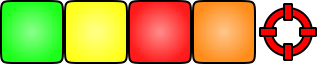
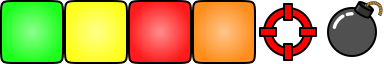
Added scoring system: cleared lines rewards bombs, allowing detonations

diff --git a/script.js b/script.js
@@ -251,21 +251,12 @@ const blocks=document.getElementById("blocks");
 //6x13, with space above
 const field_width =6;
 const field_height =13;
-const detonate_timer=1000;
 const acceleration=0.00002;
 
 class Field {
 	constructor() {
 		this.resize()
 		this.clear()
-		this.width=canvas.width;
-		this.height=canvas.height;
-		//canvas.height=window.innerHeight;
-		//canvas.width=window.innerWidth;
-		//this.block_width=canvas.width/field_width;
-		//this.block_height=canvas.height/field_height;
-		//canvas.height=canvas.style.height
-		console.log("w x: " +canvas.height +" style w: "+ canvas.style.height);
 
 		this.blocks = Array(field_height).fill().map(() => Array(field_width).fill(-1));
 		this.blocks_offset = Array(field_height).fill().map(() => Array(field_width).fill(0));
@@ -273,34 +264,15 @@ class Field {
 
 
 		this.target=-1;
-		this.timer=0;
-	}
-	target_type(type) {
-		this.target=type;
-		this.timer=detonate_timer;
-	}
-	target_next() {
-		this.target=(this.target+1)%4;
-		this.timer=detonate_timer;
 	}
 	resize() {
-		canvas.height=this.width=div.clientHeight//*0.95;
-		//canvas.width=this.width=div.clientWidth;
+		canvas.height=div.clientHeight;
 		canvas.width=canvas.height*field_width/field_height;
 
-		//canvas.height=window.innerHeight;
-		//canvas.width=window.innerWidth;
 		this.block_width=canvas.width/field_width;
 		this.block_height=canvas.height/field_height;
-		//context.clearRect(0,0,canvas.width,canvas.height)
-		//context.drawImage(background, 0, canvas.height-canvas.width, canvas.width, canvas.width);
 	}
 	clear() {
-		//canvas.height=window.innerHeight;
-		//canvas.width=window.innerWidth;
-		//this.block_width=canvas.width/field_width;
-		//this.block_height=canvas.height/field_height;
-		//context.clearRect(0,0,canvas.width,canvas.height)
 		context.fillStyle="#ffffff"
 		context.fillRect(0,0,canvas.width,canvas.height)
 		context.drawImage(background, 0, canvas.height-canvas.width, canvas.width, canvas.width);
@@ -317,14 +289,8 @@ class Field {
 			}
 		}
 
-		if (this.timer > 0) {
-			context.fillStyle="red";
-			context.fillRect(0, this.block_height*(field_height-1+1.5/4), this.block_width*field_width*this.timer/detonate_timer, this.block_height/4);
-		}
 	}
 	is_colliding(row,col){
-		//console.log("try x: " +row +"try y: "+ col);
-		//console.log("row: " +row +" col: "+ col);
 		if (col<0 || col>=field_width)
 			return true;
 		if (row>=field_height)
@@ -338,16 +304,7 @@ class Field {
 		return false;
 	}
 	step(delta) {
-		let check_removed=0;
-
-		if (this.target != -1) {
-			this.timer-=delta;
-			if (this.timer<=0) {
-				this.remove_target();
-				this.target=-1;
-				this.timer=0;
-			}
-		}
+		let check_removed=false;
 
 		//(animate) blocks falling down after clearing
 		for (let i=0; i<field_height; ++i) {
@@ -358,7 +315,7 @@ class Field {
 					if (this.blocks_offset[i][j]<0) {
 						this.blocks_offset[i][j]=0;
 						this.blocks_speed[i][j]=0;
-						check_removed=1;
+						check_removed=true;
 					}
 
 				}
@@ -390,11 +347,13 @@ class Field {
 		this.blocks_speed[new_row][col]=this.blocks_speed[old_row][col];
 	}
 	remove_target() {
+		let detonated_any=false;
 		for (let col=0; col<field_width; ++col) {
 			let row=field_height-1;
 			let seek=-1;
 			for (; row>=0; --row) {
 				if (this.blocks[row][col]==this.target) {
+					detonated_any=true;
 					this.blocks[row][col]=-1;
 					seek=row-1;
 					break;
@@ -412,6 +371,8 @@ class Field {
 				this.blocks[row][col]=-1
 			}
 		}
+
+		return detonated_any;
 	}
 	check_line(row) {
 		let col=0;
@@ -422,12 +383,6 @@ class Field {
 				break;
 		}
 		return col==field_width
-		/*
-		if (col==field_width)
-			return 1
-		else
-			return 0
-			*/
 	}
 	remove_lines() {
 		let row=field_height-1
@@ -436,6 +391,7 @@ class Field {
 			if (this.check_line(row)) {
 				console.log("> match row");
 				dj.event_score()
+				bombbag.add();
 				seek=row-1;
 				break;
 			}
@@ -444,6 +400,7 @@ class Field {
 		for (;seek>=0; --seek) {
 			if (this.check_line(seek)) {
 				dj.event_score()
+				bombbag.add();
 			}
 			else {
 				for (let col=0; col<field_width; ++col) {
@@ -481,14 +438,89 @@ field = new Field;
 
 
 
+const detonate_timer=1000;
+const max_bombs=6;
+
 class BombBag {
-	constructor() {
-		this.bombs=0;
+	constructor(field) {
+		this.timer=0;
+		this.field=field;
+		//this.bombs=null;
+		this.bomb_count=0;
+		//this.boms[max_bombs]; //Array?
 	}
 
 	add () {
+		/*
+		this.bombs={
+			animation: 0,
+			primed: false,
+			next: this.bombs
+		}
+		*/
+		this.bomb_count++;
+	}
+	target_type(type) {
+		if (this.bomb_count>0) {
+			this.field.target=type;
+			this.timer=detonate_timer;
+		}
+	}
+	target_next() {
+		if (this.bomb_count>0) {
+			this.field.target=(field.target+1)%4;
+			this.timer=detonate_timer;
+		}
+	}
+	step(delta) {
+		if (this.timer>0) {
+			this.timer-=delta;
+			if (this.timer<=0) {
+				if (this.field.remove_target()) {
+					this.field.remove_lines();
+					this.bomb_count--;
+				}
+				else {
+				}
+
+				this.field.target=-1;
+				this.timer=0;
+
+				//this.bombs=this.bombs.next;
+			}
+		}
+
+	}
+	draw_bomb(row,col) {
+		context.drawImage(blocks, 5*64, 0, 64, 64, col*this.field.block_width/2, row*this.field.block_height/2, this.field.block_width/2, this.field.block_height/2);
+	}
+	draw() {
+		/*
+		let iter=this.bombs;
+		let x=0;
+
+		while (iter != null) {
+			this.field.draw_block(1,x,5);
+
+			x++;
+			iter=iter.next;
+		}
+		*/
+		let i;
+		for (i=0; i<this.bomb_count; ++i) {
+			this.draw_bomb(field_height*2-2,i,5);
+		}
+
+		if (this.timer > 0) {
+			console.log("yes")
+			context.fillStyle="red";
+			context.fillRect(0, this.field.block_height*(field_height-1+1.5/4), this.field.block_width*field_width*this.timer/detonate_timer, this.field.block_height/4);
+		}
+
 	}
 }
+
+bombbag = new BombBag(field);
 
 const speed_slow=0.001;
 const speed_fast=0.01;
@@ -660,32 +692,6 @@ class Johnnymino {
 
 
 
-//TMP: for Fluffy
-class Cat {
-  constructor(name) {
-    this.name = name;
-	this.foobar=1337;
-  }
-
-  speak() {
-    console.log(`${this.name} makes a noise.`);
-    console.log(`${this.foobar}`);
-  }
-}
-
-class Lion extends Cat {
-  speak() {
-    super.speak();
-	  this.foobar=1;
-    super.speak();
-    console.log(`${this.name} roars.`);
-  }
-}
-
-const l = new Lion("Fuzzy");
-l.speak();
-//end TMP
-
 
 
 //TODO: move into field
@@ -709,19 +715,19 @@ window.addEventListener("keydown", (event) => {
 				johnny.faster();
 				break;
 			case "w":
-				field.target_type(3);
+				bombbag.target_type(3);
 				break;
 			case "a":
-				field.target_type(0);
+				bombbag.target_type(0);
 				break;
 			case "s":
-				field.target_type(1);
+				bombbag.target_type(1);
 				break;
 			case "d":
-				field.target_type(2);
+				bombbag.target_type(2);
 				break;
 			case " ":
-				field.target_next();
+				bombbag.target_next();
 				break;
 			case "Escape":
 				game_state=state_paused;
@@ -737,6 +743,7 @@ window.addEventListener("keydown", (event) => {
 		if (game_state==state_failed || game_state==state_won) {
 			delete field;
 			field = new Field;
+			bombbag = new BombBag(field);
 			johnny = new Johnnymino(field);
 			dj.event_retry()
 		}
@@ -768,6 +775,7 @@ function loop(time) {
 	field.resize();
 	field.clear();
 	field.draw();
+	bombbag.draw();
 
 	//TODO: should be moved into field...
 	if (johnny)
@@ -780,7 +788,9 @@ function loop(time) {
 		case state_playing:
 
 			field.step(delta);
+			bombbag.step(delta);
 
+			//returns true if landed (spawn another)
 			if (johnny.step(delta)) {
 				//istället direkt i johnny.step()?
 				//+field.add(shape...)
